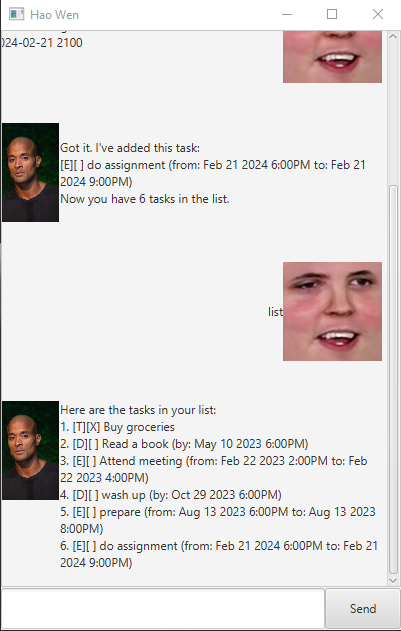
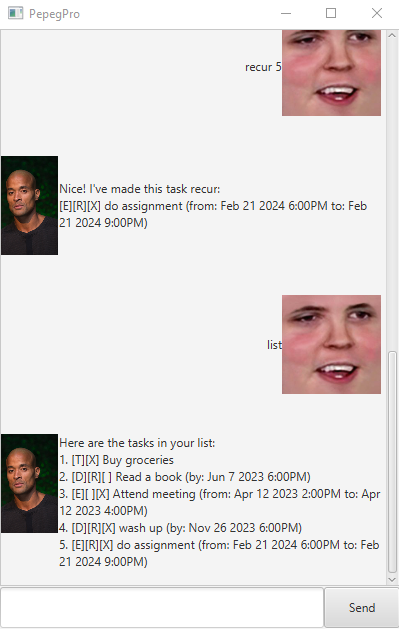
Update README.md, Ui.png, duke.txt, Deadline.java, Event.java and Storage.java
Whether a task was recurring a not was not saved and loaded
properly.

Implement conditions in Storage.java to load recurring task
correctly and made some changes to the save() method in
Deadline.java and Event.java for proper saving.

Changed region(s): [[0.0, 0.0, 1.0, 1.0]]

diff --git a/src/main/java/duke/Storage.java b/src/main/java/duke/Storage.java
@@ -61,15 +61,11 @@ public class Storage {
             while ((line = reader.readLine()) != null) {
                 String[] loadInput = line.split("\\|");
                 String type = loadInput[0].trim();
-                String isDone = loadInput[1].trim();
 
                 Task task;
                 switch (type) {
                 case "T":
-                    task = new Todo(loadInput[2].trim());
-                    if ("1".equals(isDone)) {
-                        task.markAsDone();
-                    }
+                    task = createTodoTask(loadInput);
                     break;
                 case "D":
                     task = createDeadlineTask(loadInput);
@@ -86,25 +82,45 @@ public class Storage {
         return this.tasks;
     }
 
-    private Task createDeadlineTask(String[] loadInput) throws DukeException {
+    private Task createTodoTask(String[] loadInput) {
+        String isDone = loadInput[1].trim();
         String taskString = loadInput[2].trim();
-        String byString = loadInput[3].trim();
+        Task task = new Todo(taskString);
+
+        if ("1".equals(isDone)) {
+            task.markAsDone();
+        }
+        return task;
+    }
+
+    private Task createDeadlineTask(String[] loadInput) throws DukeException {
+        String isDone = loadInput[1].trim();
+        String isRecurring = loadInput[2].trim();
+        String taskString = loadInput[3].trim();
+        String byString = loadInput[4].trim();
 
         validateDateTimeFormat(byString);
 
         LocalDateTime dateTime = LocalDateTime.parse(byString, DateTimeFormatter.ofPattern("yyyy-MM-dd HHmm"));
         Task task = new Deadline(taskString, dateTime);
 
-        if ("1".equals(loadInput[1].trim())) {
+        if ("1".equals(isDone)) {
             task.markAsDone();
+        }
+
+        if ("1".equals(isRecurring)) {
+            RecurringTask recurringTask = (RecurringTask) task;
+            recurringTask.makeRecur();
         }
         return task;
     }
 
     private Task createEventTask(String[] loadInput) throws DukeException {
-        String taskString = loadInput[2].trim();
-        String fromString = loadInput[3].trim();
-        String toString = loadInput[4].trim();
+        String isDone = loadInput[1].trim();
+        String isRecurring = loadInput[2].trim();
+        String taskString = loadInput[3].trim();
+        String fromString = loadInput[4].trim();
+        String toString = loadInput[5].trim();
 
         validateDateTimeFormat(fromString);
         validateDateTimeFormat(toString);
@@ -113,8 +129,13 @@ public class Storage {
         LocalDateTime dateTimeTo = LocalDateTime.parse(toString, DateTimeFormatter.ofPattern("yyyy-MM-dd HHmm"));
         Task task = new Event(taskString, dateTimeFrom, dateTimeTo);
 
-        if ("1".equals(loadInput[1].trim())) {
+        if ("1".equals(isDone)) {
             task.markAsDone();
+        }
+
+        if ("1".equals(isRecurring)) {
+            RecurringTask recurringTask = (RecurringTask) task;
+            recurringTask.makeRecur();
         }
         return task;
     }

diff --git a/src/main/java/duke/Event.java b/src/main/java/duke/Event.java
@@ -27,6 +27,15 @@ public class Event extends Task implements RecurringTask {
     }
 
     /**
+     * Gets the string representation of the recurring status for this task.
+     *
+     * @return A string indicating whether the task is recurring or not.
+     */
+    public String getRecurring() {
+        return isRecurring ? "[R]" : "[ ]";
+    }
+
+    /**
      * Returns a string representation of the Event task,
      * including its status icon, description, start, and end date-time.
      *
@@ -37,7 +46,8 @@ public class Event extends Task implements RecurringTask {
         DateTimeFormatter customFormatter = DateTimeFormatter.ofPattern("MMM d yyyy h:mma");
         String startDateTime = this.start.format(customFormatter);
         String endDateTime = this.end.format(customFormatter);
-        return "[E]" + super.toString() + " (from: " + startDateTime + " to: " + endDateTime + ")";
+        return "[E]" + this.getRecurring() + super.toString() + " (from: " + startDateTime
+                + " to: " + endDateTime + ")";
     }
 
     /**
@@ -51,16 +61,26 @@ public class Event extends Task implements RecurringTask {
         DateTimeFormatter customFormatter = DateTimeFormatter.ofPattern("yyyy-MM-dd HHmm");
         String startDateTime = this.start.format(customFormatter);
         String endDateTime = this.end.format(customFormatter);
-        return "E | " + (super.isDone ? "1" : "0") + " | " + super.description
+        return "E | " + (this.isRecurring ? "1" : "0") + " | " + (super.isDone ? "1" : "0") + " | " + super.description
                 + " | " + startDateTime + " | " + endDateTime;
     }
 
+    /**
+     * Makes the task recurring and returns a string representation.
+     *
+     * @return A string indicating the task has been marked as recurring.
+     */
     @Override
     public String makeRecur() {
         this.isRecurring = true;
         return this.toString();
     }
 
+    /**
+     * Gets the end date and time for the task.
+     *
+     * @return The end date and time for the task.
+     */
     @Override
     public LocalDateTime getEndDateTime() {
         return this.end;

diff --git a/src/main/java/duke/Deadline.java b/src/main/java/duke/Deadline.java
@@ -24,6 +24,15 @@ public class Deadline extends Task implements RecurringTask {
     }
 
     /**
+     * Gets the string representation of the recurring status for this task.
+     *
+     * @return A string indicating whether the task is recurring or not.
+     */
+    public String getRecurring() {
+        return isRecurring ? "[R]" : "[ ]";
+    }
+
+    /**
      * Returns a string representation of the Deadline task,
      * including its status icon, description, and deadline.
      *
@@ -33,7 +42,7 @@ public class Deadline extends Task implements RecurringTask {
     public String toString() {
         DateTimeFormatter customFormatter = DateTimeFormatter.ofPattern("MMM d yyyy h:mma");
         String dateTimeBy = this.by.format(customFormatter);
-        return "[D]" + super.toString() + " (by: " + dateTimeBy + ")";
+        return "[D]" + this.getRecurring() + super.toString() + " (by: " + dateTimeBy + ")";
     }
 
     /**
@@ -46,15 +55,26 @@ public class Deadline extends Task implements RecurringTask {
     public String toSave() {
         DateTimeFormatter customFormatter = DateTimeFormatter.ofPattern("yyyy-MM-dd HHmm");
         String dateTimeBy = this.by.format(customFormatter);
-        return "D | " + (super.isDone ? "1" : "0") + " | " + super.description + " | " + dateTimeBy;
+        return "D | " + (this.isRecurring ? "1" : "0") + " | " + (super.isDone ? "1" : "0") + " | "
+                + super.description + " | " + dateTimeBy;
     }
 
+    /**
+     * Makes the task recurring and returns a string representation.
+     *
+     * @return A string indicating the task has been marked as recurring.
+     */
     @Override
     public String makeRecur() {
         this.isRecurring = true;
         return this.toString();
     }
 
+    /**
+     * Gets the end date and time for the task.
+     *
+     * @return The end date and time for the task.
+     */
     @Override
     public LocalDateTime getEndDateTime() {
         return this.by;

diff --git a/docs/README.md b/docs/README.md
@@ -62,8 +62,8 @@ Example:
 
 ```
 Got it. I've added this task:
-[D][ ] read book (by: Feb 21 2024 6:00PM)
-Now you have 7 tasks in the list.
+[D][ ][ ] read book (by: Feb 21 2024 6:00PM)
+Now you have 6 tasks in the list.
 ```
 
 ## Adding events
@@ -77,7 +77,7 @@ Example:
 
 ```
 Got it. I've added this task:
-[D][ ] read book (from: Feb 21 2024 6:00PM to: Feb 21 2024 9:00PM)
+[E][ ][ ] read book (from: Feb 21 2024 6:00PM to: Feb 21 2024 9:00PM)
 Now you have 7 tasks in the list.
 ```
 
@@ -92,7 +92,7 @@ Example:
 
 ```
 Noted. I've removed this task:
-[E][ ] read book (from: Feb 21 2024 6:00PM to: Feb 21 2024 9:00PM)
+[E][R][ ] read book (from: Feb 21 2024 6:00PM to: Feb 21 2024 9:00PM)
 Now you have 6 tasks in the list.
 ```
 
@@ -107,7 +107,8 @@ Example:
 
 ```
 Here are the tasks in your list:
-1. [D][ ] Read a book (by: May 10 2023 6:00PM)
+1. [D][R][ ] Read a book (by: May 10 2023 6:00PM)
+2. [D][R][X] Borrow a book (by: May 15 2023 6:00PM)
 ```
 
 ## Make a task recurrable
@@ -121,7 +122,7 @@ Example:
 
 ```
 Nice! I've made this task recur:
-[E][ ] do assignment (from: Feb 21 2024 6:00PM to: Feb 21 2024 9:00PM)
+[E][R][ ] do assignment (from: Feb 21 2024 6:00PM to: Feb 21 2024 9:00PM)
 ```
 
 ## Close the chatbot
@@ -132,6 +133,25 @@ Format: ```bye```
 Bye. Hope to see you again soon!
 ```
 
+## Load
+
+Data saved from previous session is loaded automatically
+
 ## Saving the data
 
 Task list data are saved in the hard disk automatically
+
+### Command summary
+
+| Action                                 | Format                                       |
+|----------------------------------------|----------------------------------------------|
+| Show list of tasks                     | `list`                                       |
+| Mark a task as done                    | `mark INDEX`                                 |
+| Add a todo task                        | `todo TASK_DESCRIPTION`                      |
+| Add a deadline task                    | `deadline TASK_DESCRIPTION /by DATE_TIME`   |
+| Add an event task                      | `event TASK_DESCRIPTION /from DATE_TIME /to DATE_TIME` |
+| Delete a task                          | `delete INDEX`                               |
+| Find list of tasks with keyword        | `find KEYWORD`                               |
+| Make a deadline or event task recurrable| `recur INDEX`                                |
+| Close the chatbot                       | `bye`                                        |
+
